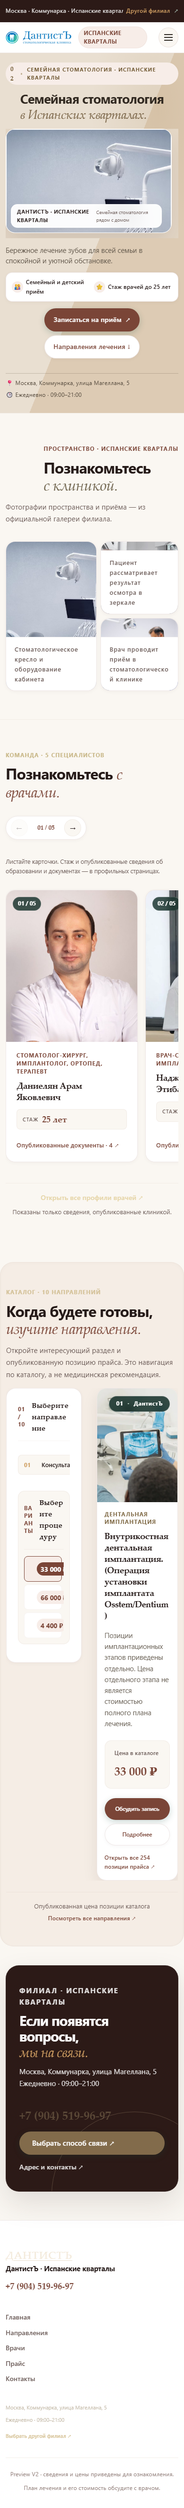
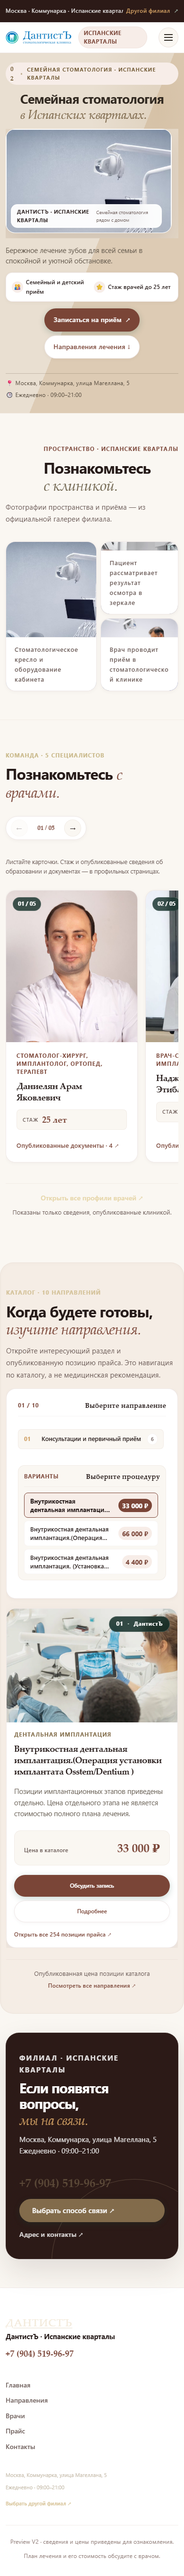
fix(v7.1): enforce single-column mobile services selector layout and refresh screenshots

diff --git a/v2/assets/v7-master.css b/v2/assets/v7-master.css
@@ -2610,8 +2610,12 @@ dialog[open]::backdrop {
     max-width: 100%;
   }
   
+  body.v2-page .service-selector,
+  body.v2-page.clinic-prokshino .service-selector,
+  body.v2-page.clinic-ispanskie .service-selector,
   .service-selector {
-    grid-template-columns: 1fr;
+    grid-template-columns: 1fr !important;
+    gap: 28px !important;
   }
   
   .gallery-grid {
@@ -2789,6 +2793,40 @@ dialog[open]::backdrop {
     flex-direction: column;
     align-items: flex-start;
     gap: 14px;
+  }
+
+  body.v2-page .service-selector,
+  body.v2-page.clinic-prokshino .service-selector,
+  body.v2-page.clinic-ispanskie .service-selector,
+  .service-selector {
+    grid-template-columns: 1fr !important;
+    gap: 20px !important;
+  }
+  
+  body.v2-page .selector-column,
+  .selector-column {
+    padding: 16px !important;
+    width: 100% !important;
+    box-sizing: border-box !important;
+  }
+
+  .selector-column-head {
+    display: flex !important;
+    align-items: center !important;
+    justify-content: space-between !important;
+    padding-bottom: 10px !important;
+    margin-bottom: 12px !important;
+  }
+
+  .selector-column-head h3,
+  .selector-column-head h4 {
+    font-size: 0.88rem !important;
+    white-space: nowrap !important;
+  }
+
+  .selector-column-head .section-index {
+    font-size: 0.72rem !important;
+    white-space: nowrap !important;
   }
   
   /* Horizontal Scrollable Categories on Mobile */
